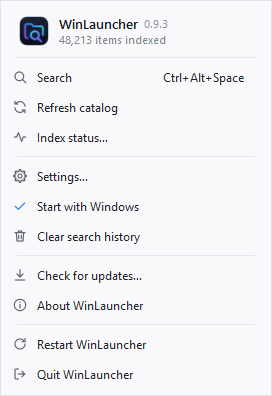
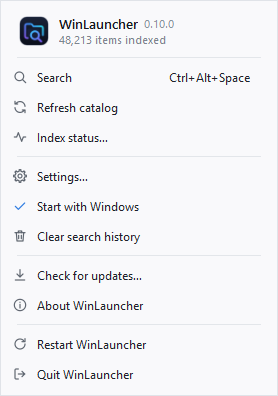
Release 0.10.0: updates name the release, show its changes and can be forced
- The tray entry reads "Update to X.Y.Z…" once a published release is known;
  the offer can unfold the release's commits, changed files and diff.
- A refused update offers Force update…, which stashes local changes and
  resets the checkout to the release tag.
- Context-menu commands accept WebP icons and ask before one is removed.

diff --git a/winlauncher/__init__.py b/winlauncher/__init__.py
@@ -1,3 +1,3 @@
 """WinLauncher: an independent, local Windows launcher."""
 
-__version__ = "0.9.3"
+__version__ = "0.10.0"

diff --git a/README.md b/README.md
@@ -77,7 +77,7 @@ Explorer & dialogs**.
 a `winlauncher` command that starts without a console window:
 
 ```powershell
-pipx install "winlauncher[rust] @ git+https://github.com/bjspi/WinLauncher.git@v0.9.3"
+pipx install "winlauncher[rust] @ git+https://github.com/bjspi/WinLauncher.git@v0.10.0"
 winlauncher --show
 ```
 
